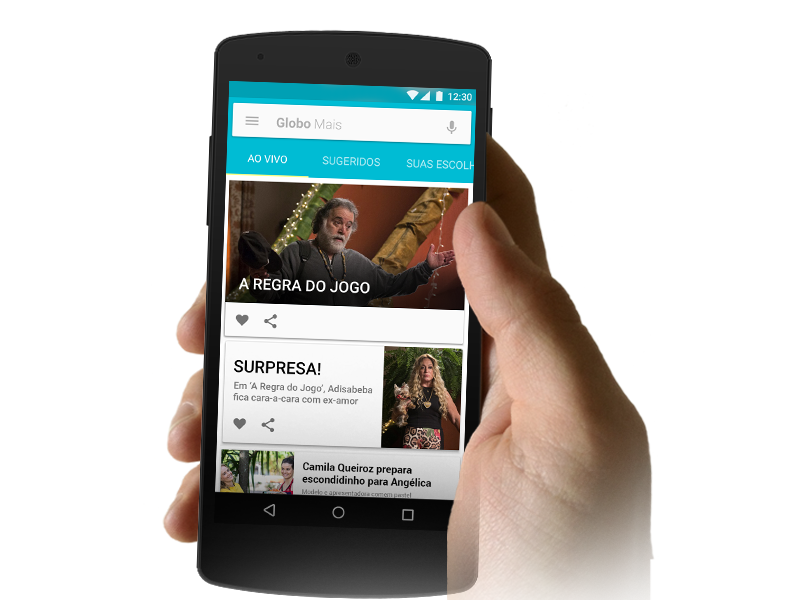
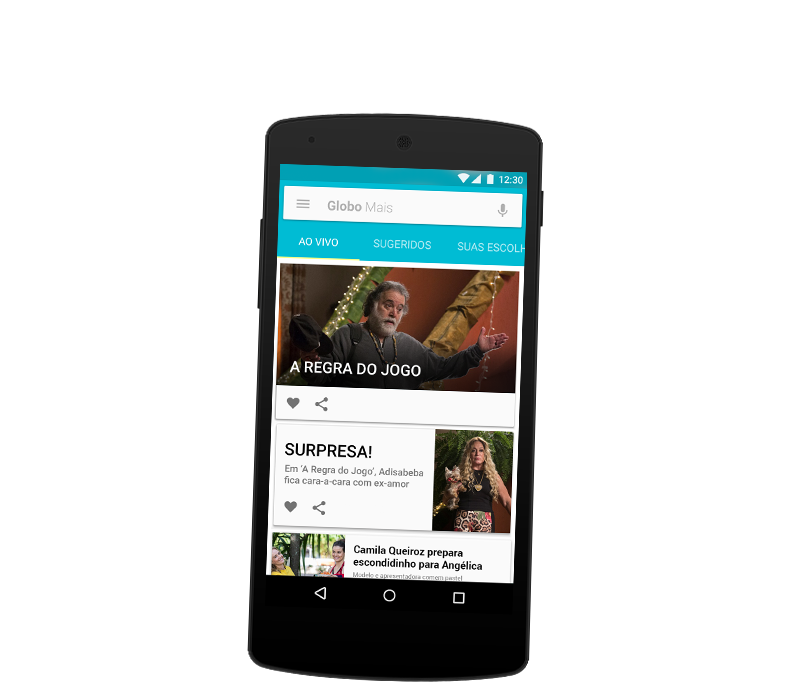
fucking fixes

diff --git a/index.html b/index.html
@@ -74,7 +74,7 @@
 							<a href="http://www.github.com/nandoacoelho" target="_blank" alt="github">Github</a>
 						</li>
 						<li>
-							<a href="https://www.behance.net/nandoacoelho" target="_blank" alt="dribbble">Behance</a>
+							<a href="https://www.behance.net/nandoacoelho" target="_blank" alt="behance">Behance</a>
 						</li>
 					</ul>
 				</div>
@@ -91,7 +91,7 @@
 			<div class="row globoMais" id="globoMais" data-autosize>
 				<h3>No que tenho trabalhado recentemente </h3>
 				<div class="col-sm-7 col-md-8 col-sm-offset-2 col-md-offset-2">
-					<article class="contentgloboMais">
+					<article class="contentGloboMais">
 						<time datetime="2015-02">
 							<span class="under">Agosto</span>
 							<span class="year">2015</span>
@@ -102,7 +102,7 @@
 							artificial e aprendizagem de maquina para fornecer os melhores resultados e alimentar a opção de programas sugeridos. 
 						</p>
 						<p class="cta">
-							<a class="btn" href="https://www.behance.net/gallery/29591179/Globo-Mais-App" target="_blank">VA PARA O BEHANCE</a><br>
+							<a class="btn" href="https://www.behance.net/gallery/29591179/Globo-Mais-App" target="_blank">VEJA NO BEHANCE</a><br>
 							<a class="btn" href="https://github.com/joselitojunior/hackathon-globo" target="_blank">SAIBA MAIS</a>
 						</p>
 					</article>
@@ -120,7 +120,7 @@
 						<p>Material de marketing impresso e de redes sociais para os eventos de verão organizados pela BRASA.
 						</p>
 						<p class="cta">
-							<a class="btn" href="https://www.behance.net/gallery/27218519/BRASA-Summer-Events" target="_blank">OPEN BEHANCE</a><br>
+							<a class="btn" href="https://www.behance.net/gallery/27218519/BRASA-Summer-Events" target="_blank">VEJA NO BEHANCE</a><br>
 							<a class="btn" href="https://www.facebook.com/gobrasa" target="_blank">VÁ PARA A PAGINA NO FACEBOOK</a>
 						</p>
 					</article>

diff --git a/assets/css/main.css b/assets/css/main.css
@@ -297,7 +297,7 @@ span.glyphicon-chevron-down {
 	transform: rotate(2deg);
 }
 
-.contentgloboMais{
+.contentGloboMais{
 	text-align: left;
 	padding-top: 100px;
 	margin-left: -150px;
@@ -707,6 +707,16 @@ footer {
 		width: 100%;
 		}
 
+	.contentGloboMais {
+		text-align: left;
+		position: static;
+		margin-left: -10%; 
+		top: 50%;
+		height: 60%;
+		width: 100%;
+	}
+
+
 	.contentCells {
 		text-align: left;
 		position: static;
@@ -716,7 +726,7 @@ footer {
 		width: 100%;
 	}
 
-.contentBrasa {
+	.contentBrasa {
 		text-align: left;
 		position: static;
 		margin-left: -10%; 
@@ -724,6 +734,8 @@ footer {
 		height: 60%;
 		width: 100%;
 	}
+
+
 	.footer {
 		height: auto;
 		width: auto;
@@ -781,6 +793,24 @@ footer {
 		left: 0;
 		right: 0;
 	}
+	
+	.globoMais {
+		background:#2d77bd  url(../img/hand-mobile.png) no-repeat top center;
+		background-size: 500px;
+		background-position: 50% 12%;
+		height: 100%;
+	}
+
+		.contentGloboMais {
+			padding-top: 350px;
+			text-align: center;
+			position: static;
+			margin-left: 0; 
+			top: 50%;
+			height: auto;
+			width: auto;
+		}
+
 	
 	.brasaSummer {
 		background:#013754  url(../img/brasasummer-mobile2.png) no-repeat top center;
